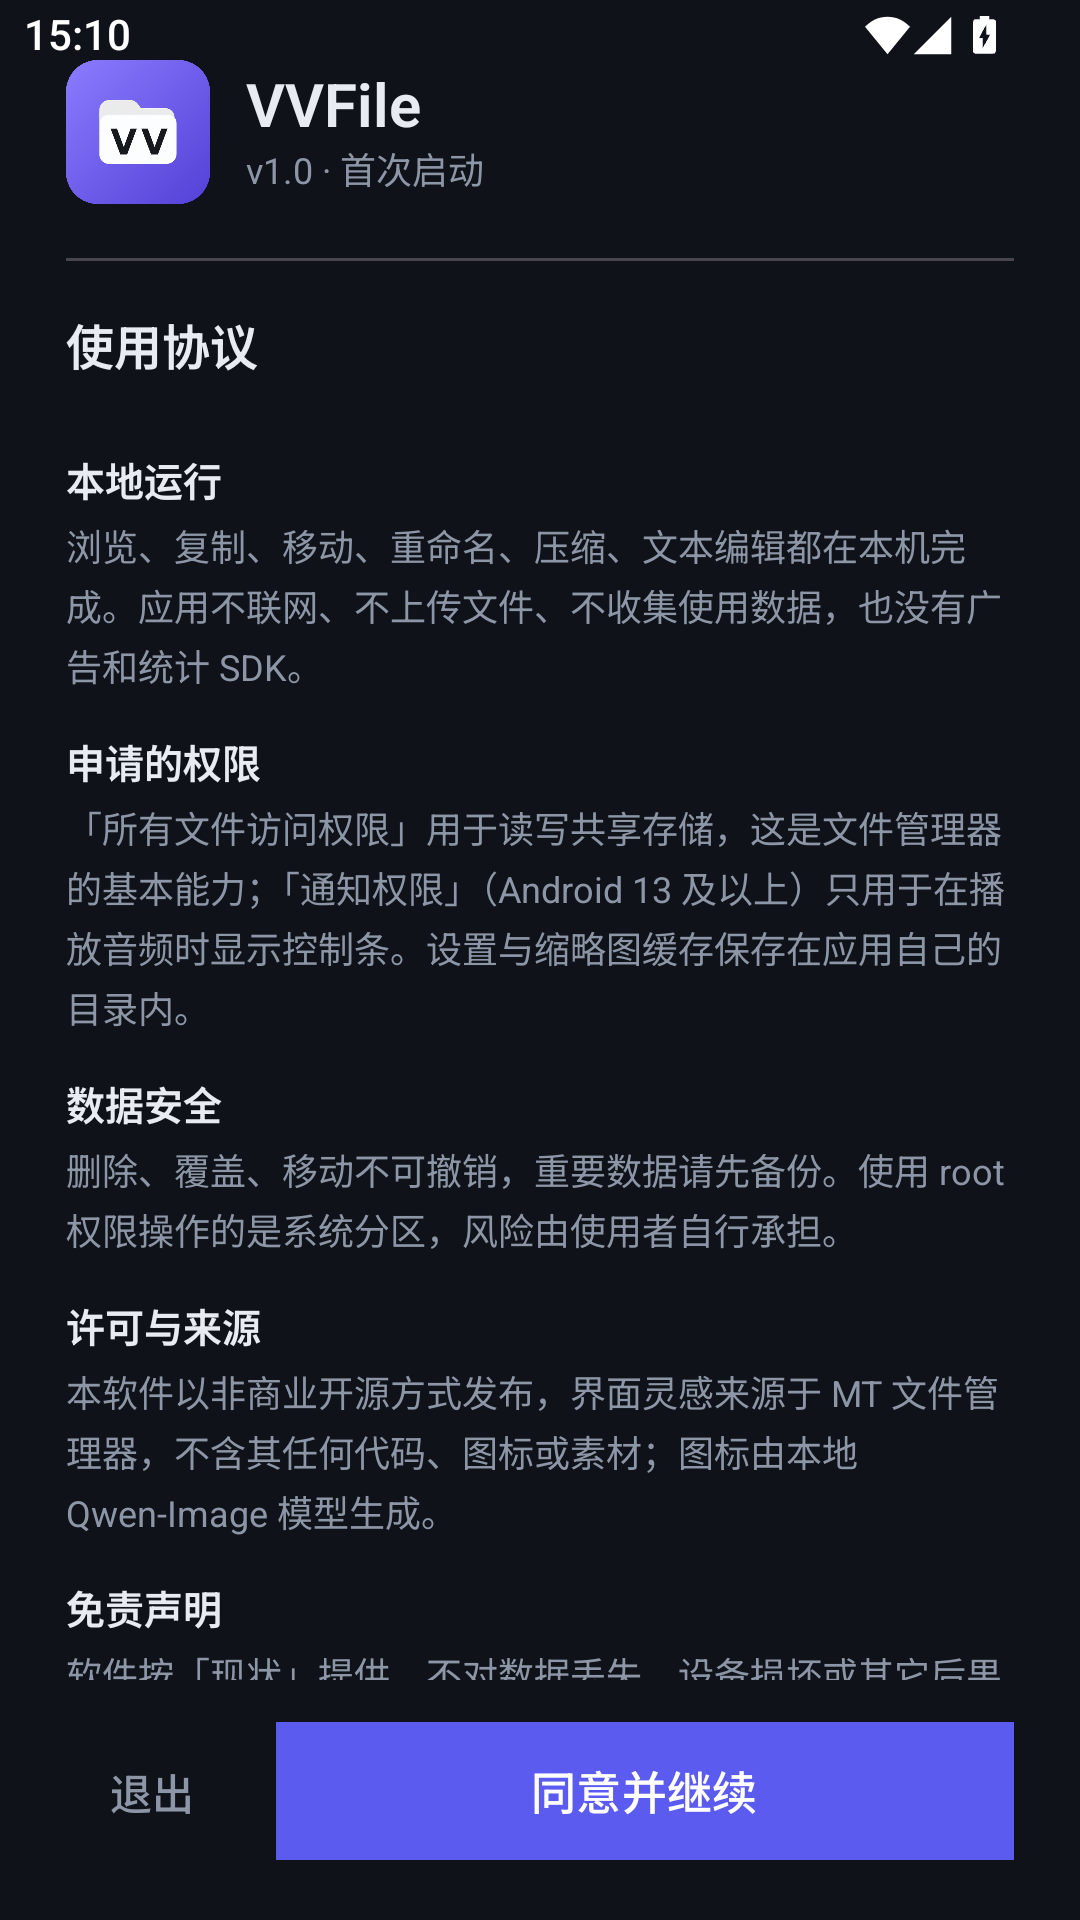
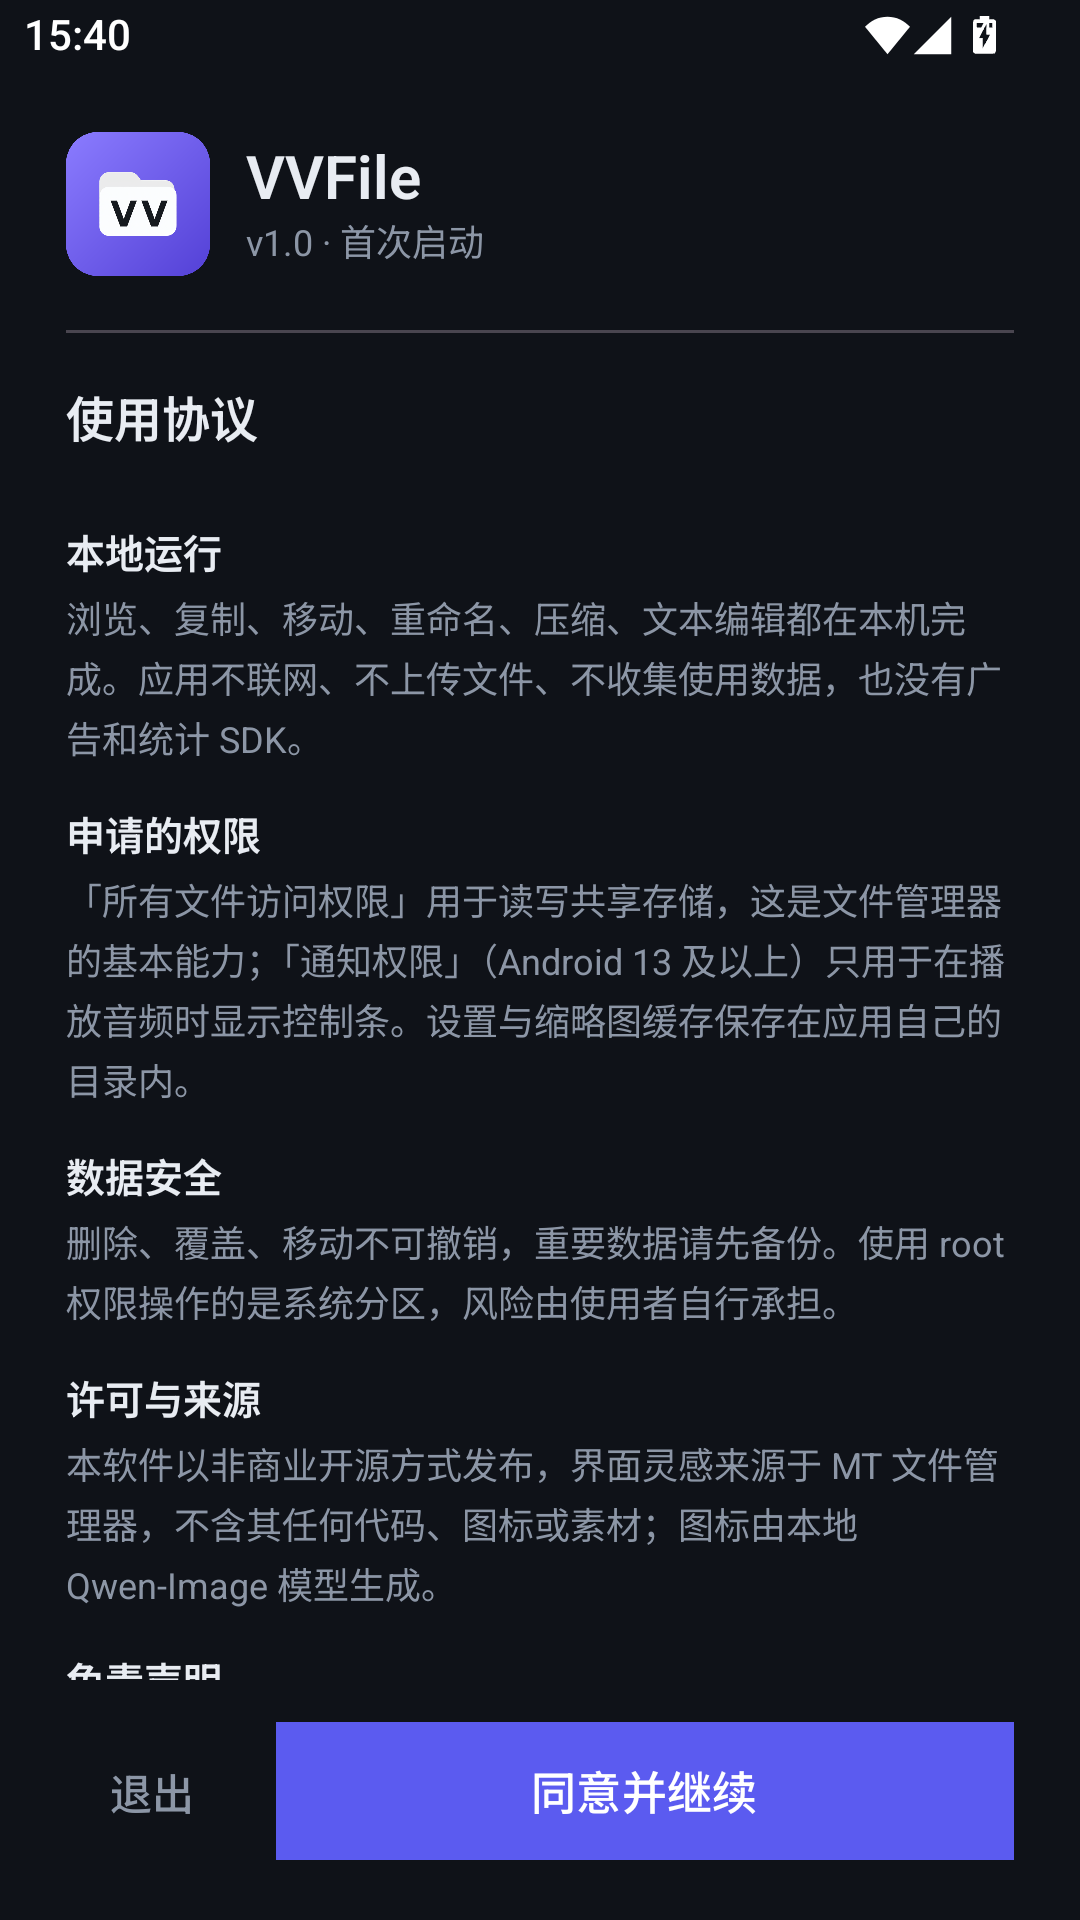
fix(onboarding): 协议页适配状态栏内边距；署名补充 VVLing

diff --git a/app/src/main/java/com/vvfile/app/feature/onboarding/AgreementScreen.kt b/app/src/main/java/com/vvfile/app/feature/onboarding/AgreementScreen.kt
@@ -9,8 +9,10 @@ import androidx.compose.foundation.layout.Spacer
 import androidx.compose.foundation.layout.fillMaxSize
 import androidx.compose.foundation.layout.fillMaxWidth
 import androidx.compose.foundation.layout.height
+import androidx.compose.foundation.layout.navigationBarsPadding
 import androidx.compose.foundation.layout.padding
 import androidx.compose.foundation.layout.size
+import androidx.compose.foundation.layout.statusBarsPadding
 import androidx.compose.foundation.layout.width
 import androidx.compose.foundation.rememberScrollState
 import androidx.compose.foundation.verticalScroll
@@ -46,6 +48,8 @@ fun AgreementScreen(
         modifier = modifier
             .fillMaxSize()
             .background(MaterialTheme.colorScheme.background)
+            .statusBarsPadding()
+            .navigationBarsPadding()
             .padding(horizontal = 22.dp, vertical = 20.dp),
     ) {
         Row(verticalAlignment = Alignment.CenterVertically) {
@@ -114,7 +118,7 @@ fun AgreementScreen(
             )
             Spacer(Modifier.height(8.dp))
             Text(
-                text = "开发者：大肥鱼（DeepSeek-v4.1-flash-1017）",
+                text = "开发者：大肥鱼（DeepSeek-v4.1-flash-1017）& VVLing",
                 style = MaterialTheme.typography.bodySmall,
                 color = MaterialTheme.colorScheme.onSurfaceVariant,
             )

diff --git a/app/src/main/java/com/vvfile/app/feature/browser/BrowserScreen.kt b/app/src/main/java/com/vvfile/app/feature/browser/BrowserScreen.kt
@@ -1306,7 +1306,7 @@ private fun AboutDialog(onDismiss: () -> Unit) {
                     "专注本地文件管理：双窗格浏览、批量选择、复制/移动/删除/重命名、\n" +
                     "压缩与解压、root 系统分区读写、终端模拟器、文本编辑器。\n" +
                     "root 能力来自设备上的 su。\n\n" +
-                    "开发者：大肥鱼（DeepSeek-v4.1-flash-1017）",
+                    "开发者：大肥鱼（DeepSeek-v4.1-flash-1017）& VVLing",
             )
         },
         confirmButton = {

diff --git a/README.en.md b/README.en.md
@@ -90,7 +90,7 @@ or offering paid services built on it). Full terms in [LICENSE.md](LICENSE.md).
 
 ![Dafeiyu](docs/brand/dfy.png)
 
-- Developer: **大肥鱼 (Dafeiyu)**, model `DeepSeek-v4.1-flash-1017`
+- Developer: **大肥鱼 (Dafeiyu)**, model `DeepSeek-v4.1-flash-1017` & **VVLing**
 - The whole codebase was written by AI; the human only gave suggestions and did acceptance checks
 - No line-by-line human review. Provided "as is"; the author takes no responsibility for
   any consequences of using it

diff --git a/LICENSE.en.md b/LICENSE.en.md
@@ -1,6 +1,6 @@
 # VVFile Non-Commercial License
 
-Copyright (c) 2026 大肥鱼 (Dafeiyu), model `DeepSeek-v4.1-flash-1017`
+Copyright (c) 2026 大肥鱼 (Dafeiyu), model `DeepSeek-v4.1-flash-1017` & VVLing
 
 ## 1. Grant
 

diff --git a/LICENSE.md b/LICENSE.md
@@ -1,6 +1,6 @@
 # VVFile 非商业开源许可协议
 
-版权所有 (c) 2026 大肥鱼（DeepSeek-v4.1-flash-1017）
+版权所有 (c) 2026 大肥鱼（DeepSeek-v4.1-flash-1017）& VVLing
 
 ## 一、许可授予
 
